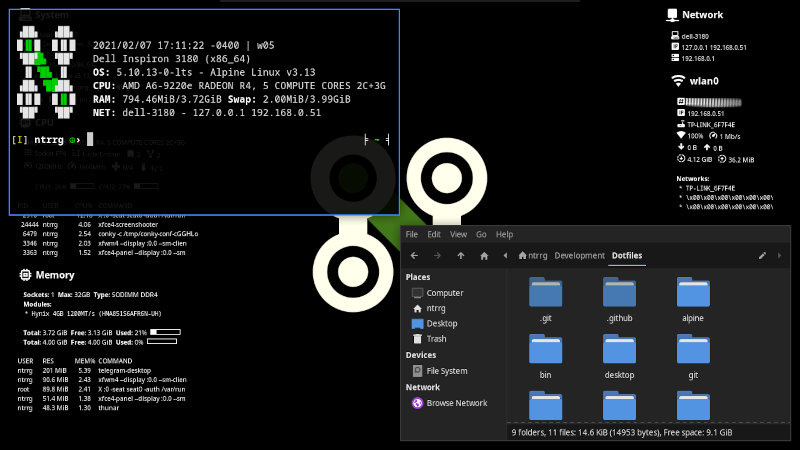
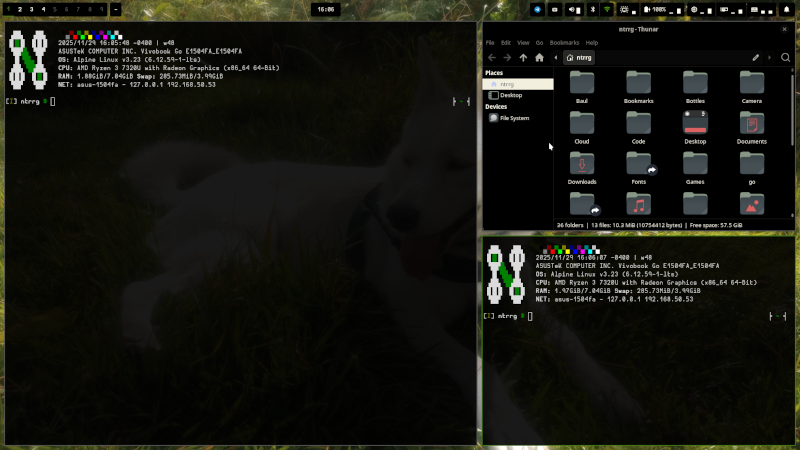
Use Asus Vivobook E1504FA as main device

diff --git a/gui/README.md b/gui/README.md
@@ -8,72 +8,112 @@
 
 ## Requirements
 
-* [XFCE](https://xfce.org) >= 4.16
-* [Conky](https://github.com/brndnmtthws/conky) >= 1.11
-* [Material Design Icons Desktop TTF](https://github.com/Templarian/MaterialDesign-Font)
-* [Materia GTK theme](https://github.com/nana-4/materia-theme)
-* [Papirus icon theme](https://git.io/papirus-icon-theme)
+- [Wayland](https://wayland.freedesktop.org) >= 1.24.0
+- [River](https://codeberg.org/river/river) >= 0.3.13
+- [Waybar](https://waybar.org/) >= 0.14.0
+- [Rofi](https://github.com/davatorium/rofi) >= 1.7.9
+- [Hurmit Nerd Font](https://www.nerdfonts.com/)
+- [Everforest GTK and icon theme](https://github.com/Fausto-Korpsvart/Everforest-GTK-Theme)
+- [Phinger Cursors theme](https://github.com/phisch/phinger-cursors)
 
 ## Features
 
-* Simple smart-hide panel.
+- True black colors.
 
-  1. Open applications.
-  2. Network I/O monitor.
-  3. Status area.
-  4. Notification area.
-  5. Audio controls.
-  6. Clock.
-  7. Timer.
-  8. System monitor.
-  9. Disk I/O monitor.
-  10. Temperature sensors monitor.
+- Simple panel.
 
-* No title bars.
+  1. Workspaces (tags).
+  2. Application title.
+  3. Clock.
+  4. Tray area.
+  5. Keyboard layout controls.
+  6. Audio controls.
+  7. Network monitors.
+  8. Brightness indicator.
+  9. Battery indicator.
+  10. System monitor (CPU, GPU, memory).
+  11. Notification controls.
 
-* Keyboard shortcuts.
+- No title bars.
 
-  * <kbd>⌘</kbd> + <kbd>I</kbd> -> Invert screen colors (`xcalib`).
-  * <kbd>⌘</kbd> + <kbd>K</kbd> -> Start `xkill`.
-  * <kbd>⌘</kbd> + <kbd>P</kbd> -> Open display settings.
-  * <kbd>⌘</kbd> + <kbd>L</kbd> -> Lock screen.
-  * <kbd>⌘</kbd> + <kbd>Delete</kbd> -> Suspend.
+- Keyboard shortcuts.
+
+  - <kbd>Alt</kbd> + <kbd>Shift</kbd> + <kbd>F4</kbd> -> Close window manager.
+  - <kbd>Alt</kbd> + <kbd>F4</kbd> -> Close window.
+  - <kbd>⌘</kbd> + <kbd>Esc</kbd> -> Enter normal mode.
+  - <kbd>⌘</kbd> + <kbd>F12</kbd> -> Toggle pass through mode (enable/disable all windows manager keybindings).
+  - <kbd>⌘</kbd> + <kbd>P</kbd> -> Open display settings.
+  <!-- - <kbd>⌘</kbd> + <kbd>I</kbd> -> Invert screen colors (`xcalib`). -->
+  <!-- - <kbd>⌘</kbd> + <kbd>K</kbd> -> Start `xkill`. -->
+  - <kbd>⌘</kbd> + <kbd>Delete</kbd> -> Turn off screen.
+  - <kbd>⌘</kbd> + <kbd>Shift</kbd> + <kbd>Delete</kbd> -> Lock screen.
+  - <kbd>⌘</kbd> + <kbd>Ctrl</kbd> + <kbd>Shift</kbd> + <kbd>Delete</kbd> -> Suspend.
+  - <kbd>⌘</kbd> + <kbd>B</kbd> -> Launch status bar.
+  - <kbd>⌘</kbd> + <kbd>Shift</kbd> + <kbd>B</kbd> -> Close status bar.
+  - <kbd>⌘</kbd> + <kbd>D</kbd> -> Dismiss first notification.
+  - <kbd>⌘</kbd> + <kbd>Shift</kbd> + <kbd>D</kbd> -> Dismiss all notifications.
+  - <kbd>⌘</kbd> + <kbd>S</kbd> -> Silence notifications.
 
   **Applications:**
 
-  * <kbd>⌘</kbd> + <kbd>Space</kbd> -> Open application launcher.
-  * <kbd>⌘</kbd> + <kbd>F</kbd> -> Open default file manager.
-  * <kbd>⌘</kbd> + <kbd>M</kbd> -> Open Telegram.
-  * <kbd>⌘</kbd> + <kbd>T</kbd> -> Open default terminal.
-  * <kbd>⌘</kbd> + <kbd>W</kbd> -> Open default web browser.
+  - <kbd>⌘</kbd> + <kbd>Space</kbd> -> Open application launcher.
+  - <kbd>⌘</kbd> + <kbd>Shift</kbd> + <kbd>Space</kbd> -> Run a command.
+  - <kbd>⌘</kbd> + <kbd>F</kbd> -> Open default file manager.
+  - <kbd>⌘</kbd> + <kbd>M</kbd> -> Open messaging application.
+  - <kbd>⌘</kbd> + <kbd>T</kbd> -> Open default terminal.
+  - <kbd>⌘</kbd> + <kbd>Shift</kbd> + <kbd>T</kbd> -> Open default terminal as floating window.
+  - <kbd>⌘</kbd> + <kbd>W</kbd> -> Open default web browser.
+  - <kbd>⌘</kbd> + <kbd>Shift</kbd> + <kbd>W</kbd> -> Open default web browser in incognito mode.
 
-  **Windows management:**
+  **Workspaces:**
 
-  * <kbd>⌘</kbd> + <kbd>Return</kbd> -> Window menu.
-  * <kbd>⌘</kbd> + <kbd>D</kbd> -> Minimize/maximize all windows (show desktop).
-  * <kbd>Alt</kbd> + <kbd>Tab</kbd> -> Cycle windows.
-  * <kbd>Alt</kbd> + <kbd>Shift</kbd> + <kbd>Tab</kbd> -> Reverse cycle windows.
-  * <kbd>⌘</kbd> + <kbd>Tab</kbd> -> Cycle windows from the same application.
-  * <kbd>⌘</kbd> + <kbd>Shift</kbd> + <kbd>↑</kbd> -> Tile window to the top.
-  * <kbd>⌘</kbd> + <kbd>Shift</kbd> + <kbd>↓</kbd> -> Tile window to the bottom.
-  * <kbd>⌘</kbd> + <kbd>Shift</kbd> + <kbd>←</kbd> -> Tile window to the left.
-  * <kbd>⌘</kbd> + <kbd>Shift</kbd> + <kbd>→</kbd> -> Tile window to the right.
-  * <kbd>⌘</kbd> + <kbd>Ctrl</kbd> + <kbd>Shift</kbd> + <kbd>↑</kbd> -> Tile window to the top-left.
-  * <kbd>⌘</kbd> + <kbd>Ctrl</kbd> + <kbd>Shift</kbd> + <kbd>↓</kbd> -> Tile window to the bottom-right.
-  * <kbd>⌘</kbd> + <kbd>Ctrl</kbd> + <kbd>Shift</kbd> + <kbd>←</kbd> -> Tile window to the bottom-left.
-  * <kbd>⌘</kbd> + <kbd>Ctrl</kbd> + <kbd>Shift</kbd> + <kbd>→</kbd> -> Tile window to the top-right.
-  * <kbd>⌘</kbd> + <kbd>↑</kbd> -> Toggle vertical maximize window.
-  * <kbd>⌘</kbd> + <kbd>↓</kbd> -> Minimize window.
-  * <kbd>⌘</kbd> + <kbd>←</kbd> -> Start resize window.
-  * <kbd>⌘</kbd> + <kbd>→</kbd> -> Toggle horizontal maximize window.
-  * <kbd>Alt</kbd> + <kbd>F10</kbd> -> Toggle maximize window.
-  * <kbd>Alt</kbd> + <kbd>F11</kbd> -> Toggle full screen window.
-  * <kbd>Alt</kbd> + <kbd>F12</kbd> -> Toggle always visible window.
-  * <kbd>Alt</kbd> + <kbd>F7</kbd> -> Move window.
-  * <kbd>Alt</kbd> + <kbd>F4</kbd> -> Close window.
+  - <kbd>⌘</kbd> + <kbd>1-9</kbd> -> Go to workspace 1-9.
+  - <kbd>⌘</kbd> + <kbd>Shift</kbd> + <kbd>1-9</kbd> -> Move window to workspace 1-9.
+  - <kbd>⌘</kbd> + <kbd>0</kbd> -> Go to scratchpad.
+  - <kbd>⌘</kbd> + <kbd>Shift</kbd> + <kbd>0</kbd> -> Move window to scratchpad.
 
-  **Work Spaces:**
+  **Layout:**
 
-  * <kbd>⌘</kbd> + <kbd>1-9</kbd> -> Go to Workspace 1-9.
-  * <kbd>⌘</kbd> + <kbd>Ctrl</kbd> + <kbd>1-9</kbd> -> Move window to Workspace 1-9.
+  - <kbd>Alt</kbd> + <kbd>F10</kbd> -> Set as main window.
+  - <kbd>Alt</kbd> + <kbd>F11</kbd> -> Toggle full screen.
+  - <kbd>Alt</kbd> + <kbd>F12</kbd> -> Toggle floating.
+  - <kbd>Alt</kbd> + <kbd>Tab</kbd> -> Cycle windows.
+  - <kbd>Alt</kbd> + <kbd>Shift</kbd> + <kbd>Tab</kbd> -> Reverse cycle windows.
+  - <kbd>⌘</kbd> + <kbd>F1</kbd> -> Enter layout mode.
+    - <kbd>↑</kbd> -> Increment main window count.
+    - <kbd>↓</kbd> -> Decrement main window count.
+    - <kbd>←</kbd> -> Decrement main window size.
+    - <kbd>→</kbd> -> Increment main window size.
+    - <kbd>Alt</kbd> + <kbd>Shift</kbd> + <kbd>↑</kbd> -> Position main window in the top.
+    - <kbd>Alt</kbd> + <kbd>Shift</kbd> + <kbd>↓</kbd> -> Position main window in the bottom.
+    - <kbd>Alt</kbd> + <kbd>Shift</kbd> + <kbd>←</kbd> -> Position main window in the left.
+    - <kbd>Alt</kbd> + <kbd>Shift</kbd> + <kbd>→</kbd> -> Position main window in the right.
+
+  **Floating:**
+
+  - <kbd>⌘</kbd> + <kbd>F2</kbd> -> Enter float mode.
+    - <kbd>↑</kbd> -> Move window up.
+    - <kbd>↓</kbd> -> Move window down.
+    - <kbd>←</kbd> -> Move window left.
+    - <kbd>→</kbd> -> Move window right.
+    - <kbd>Alt</kbd> + <kbd>Shift</kbd> + <kbd>↑</kbd> -> Increase window size horizontally.
+    - <kbd>Alt</kbd> + <kbd>Shift</kbd> + <kbd>↓</kbd> -> Decrease window size horizontally.
+    - <kbd>Alt</kbd> + <kbd>Shift</kbd> + <kbd>←</kbd> -> Decrease window size vertically.
+    - <kbd>Alt</kbd> + <kbd>Shift</kbd> + <kbd>→</kbd> -> Increase window size vertically.
+
+  **Screens:**
+
+  - <kbd>⌘</kbd> + <kbd>Tab</kbd> -> Focus next screen.
+  - <kbd>⌘</kbd> + <kbd>Shift</kbd> + <kbd>Tab</kbd> -> Focus previous screen.
+  - <kbd>⌘</kbd> + <kbd>Alt</kbd> + <kbd>Tab</kbd> -> Move window to the next screen.
+  - <kbd>⌘</kbd> + <kbd>Alt</kbd> + <kbd>Shift</kbd> + <kbd>Tab</kbd> -> Move window to the previous screen.
+  - <kbd>⌘</kbd> + <kbd>F3</kbd> -> Enter screen mode.
+    - <kbd>↑</kbd> -> Focus screen up.
+    - <kbd>↓</kbd> -> Focus screen down.
+    - <kbd>←</kbd> -> Focus screen left.
+    - <kbd>→</kbd> -> Focus screen right.
+    - <kbd>Alt</kbd> + <kbd>Shift</kbd> + <kbd>↑</kbd> -> Move window one screen up.
+    - <kbd>Alt</kbd> + <kbd>Shift</kbd> + <kbd>↓</kbd> -> Move window one screen down.
+    - <kbd>Alt</kbd> + <kbd>Shift</kbd> + <kbd>←</kbd> -> Move window one screen left.
+    - <kbd>Alt</kbd> + <kbd>Shift</kbd> + <kbd>→</kbd> -> Move window one screen right.
 
